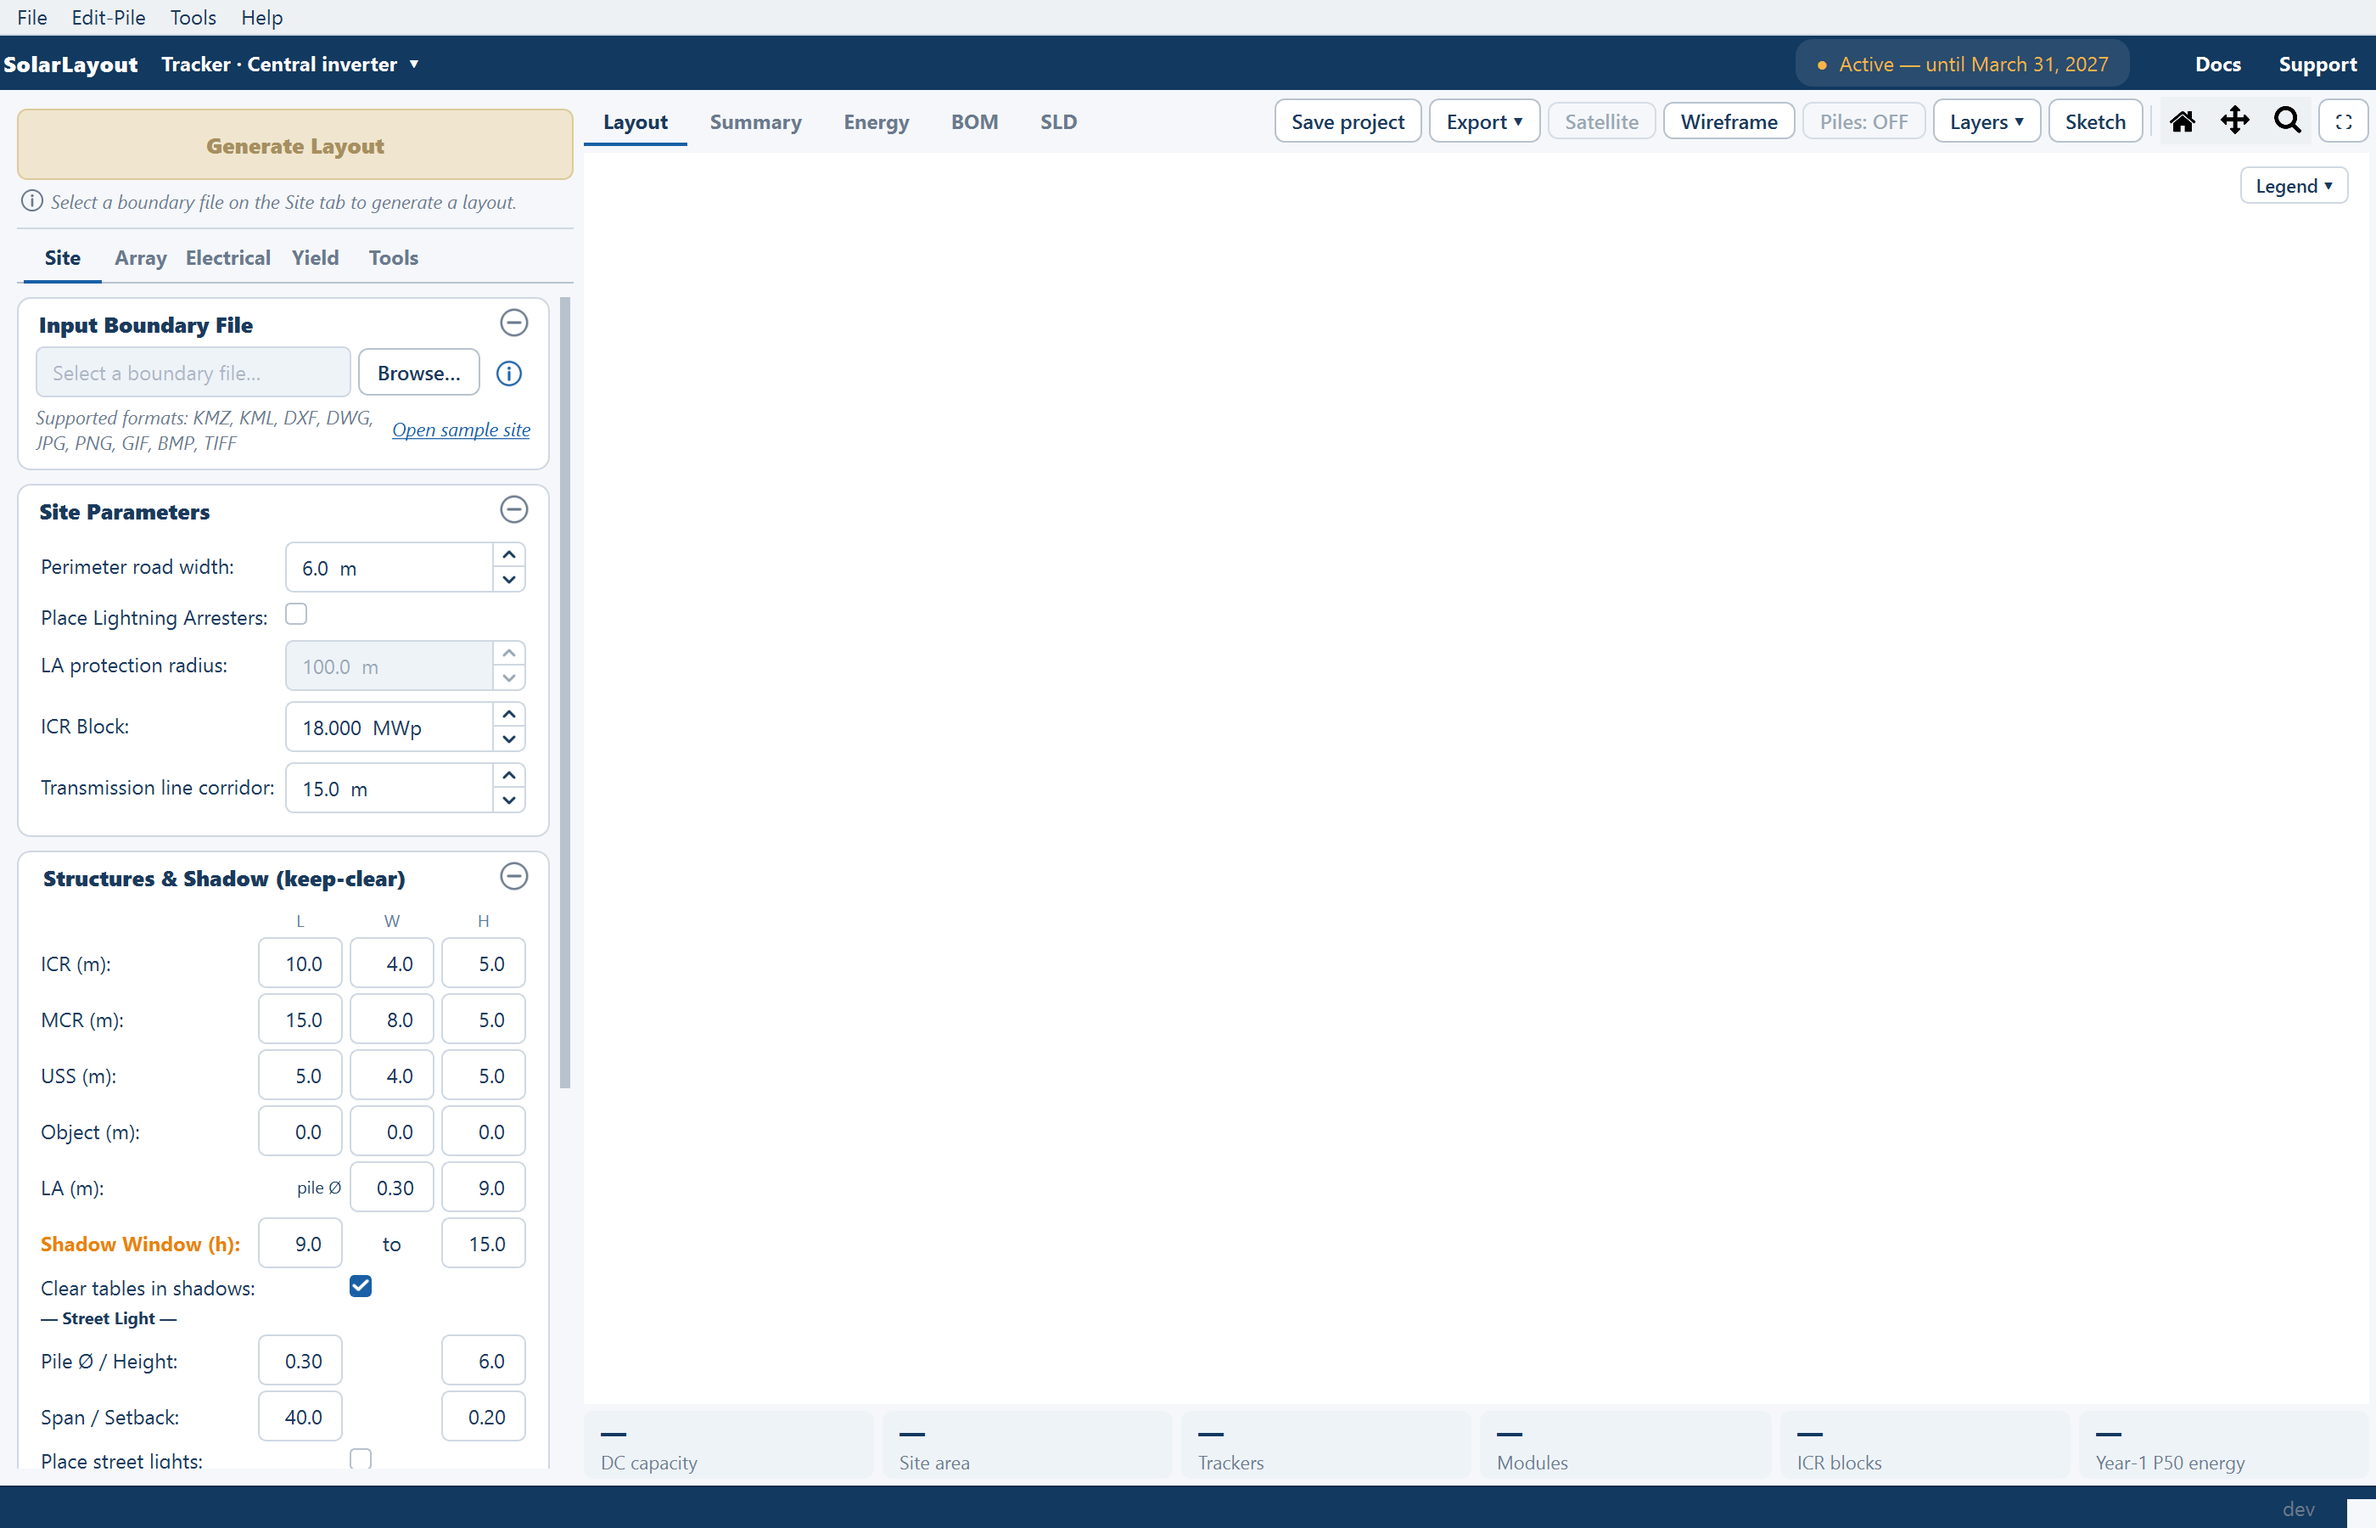
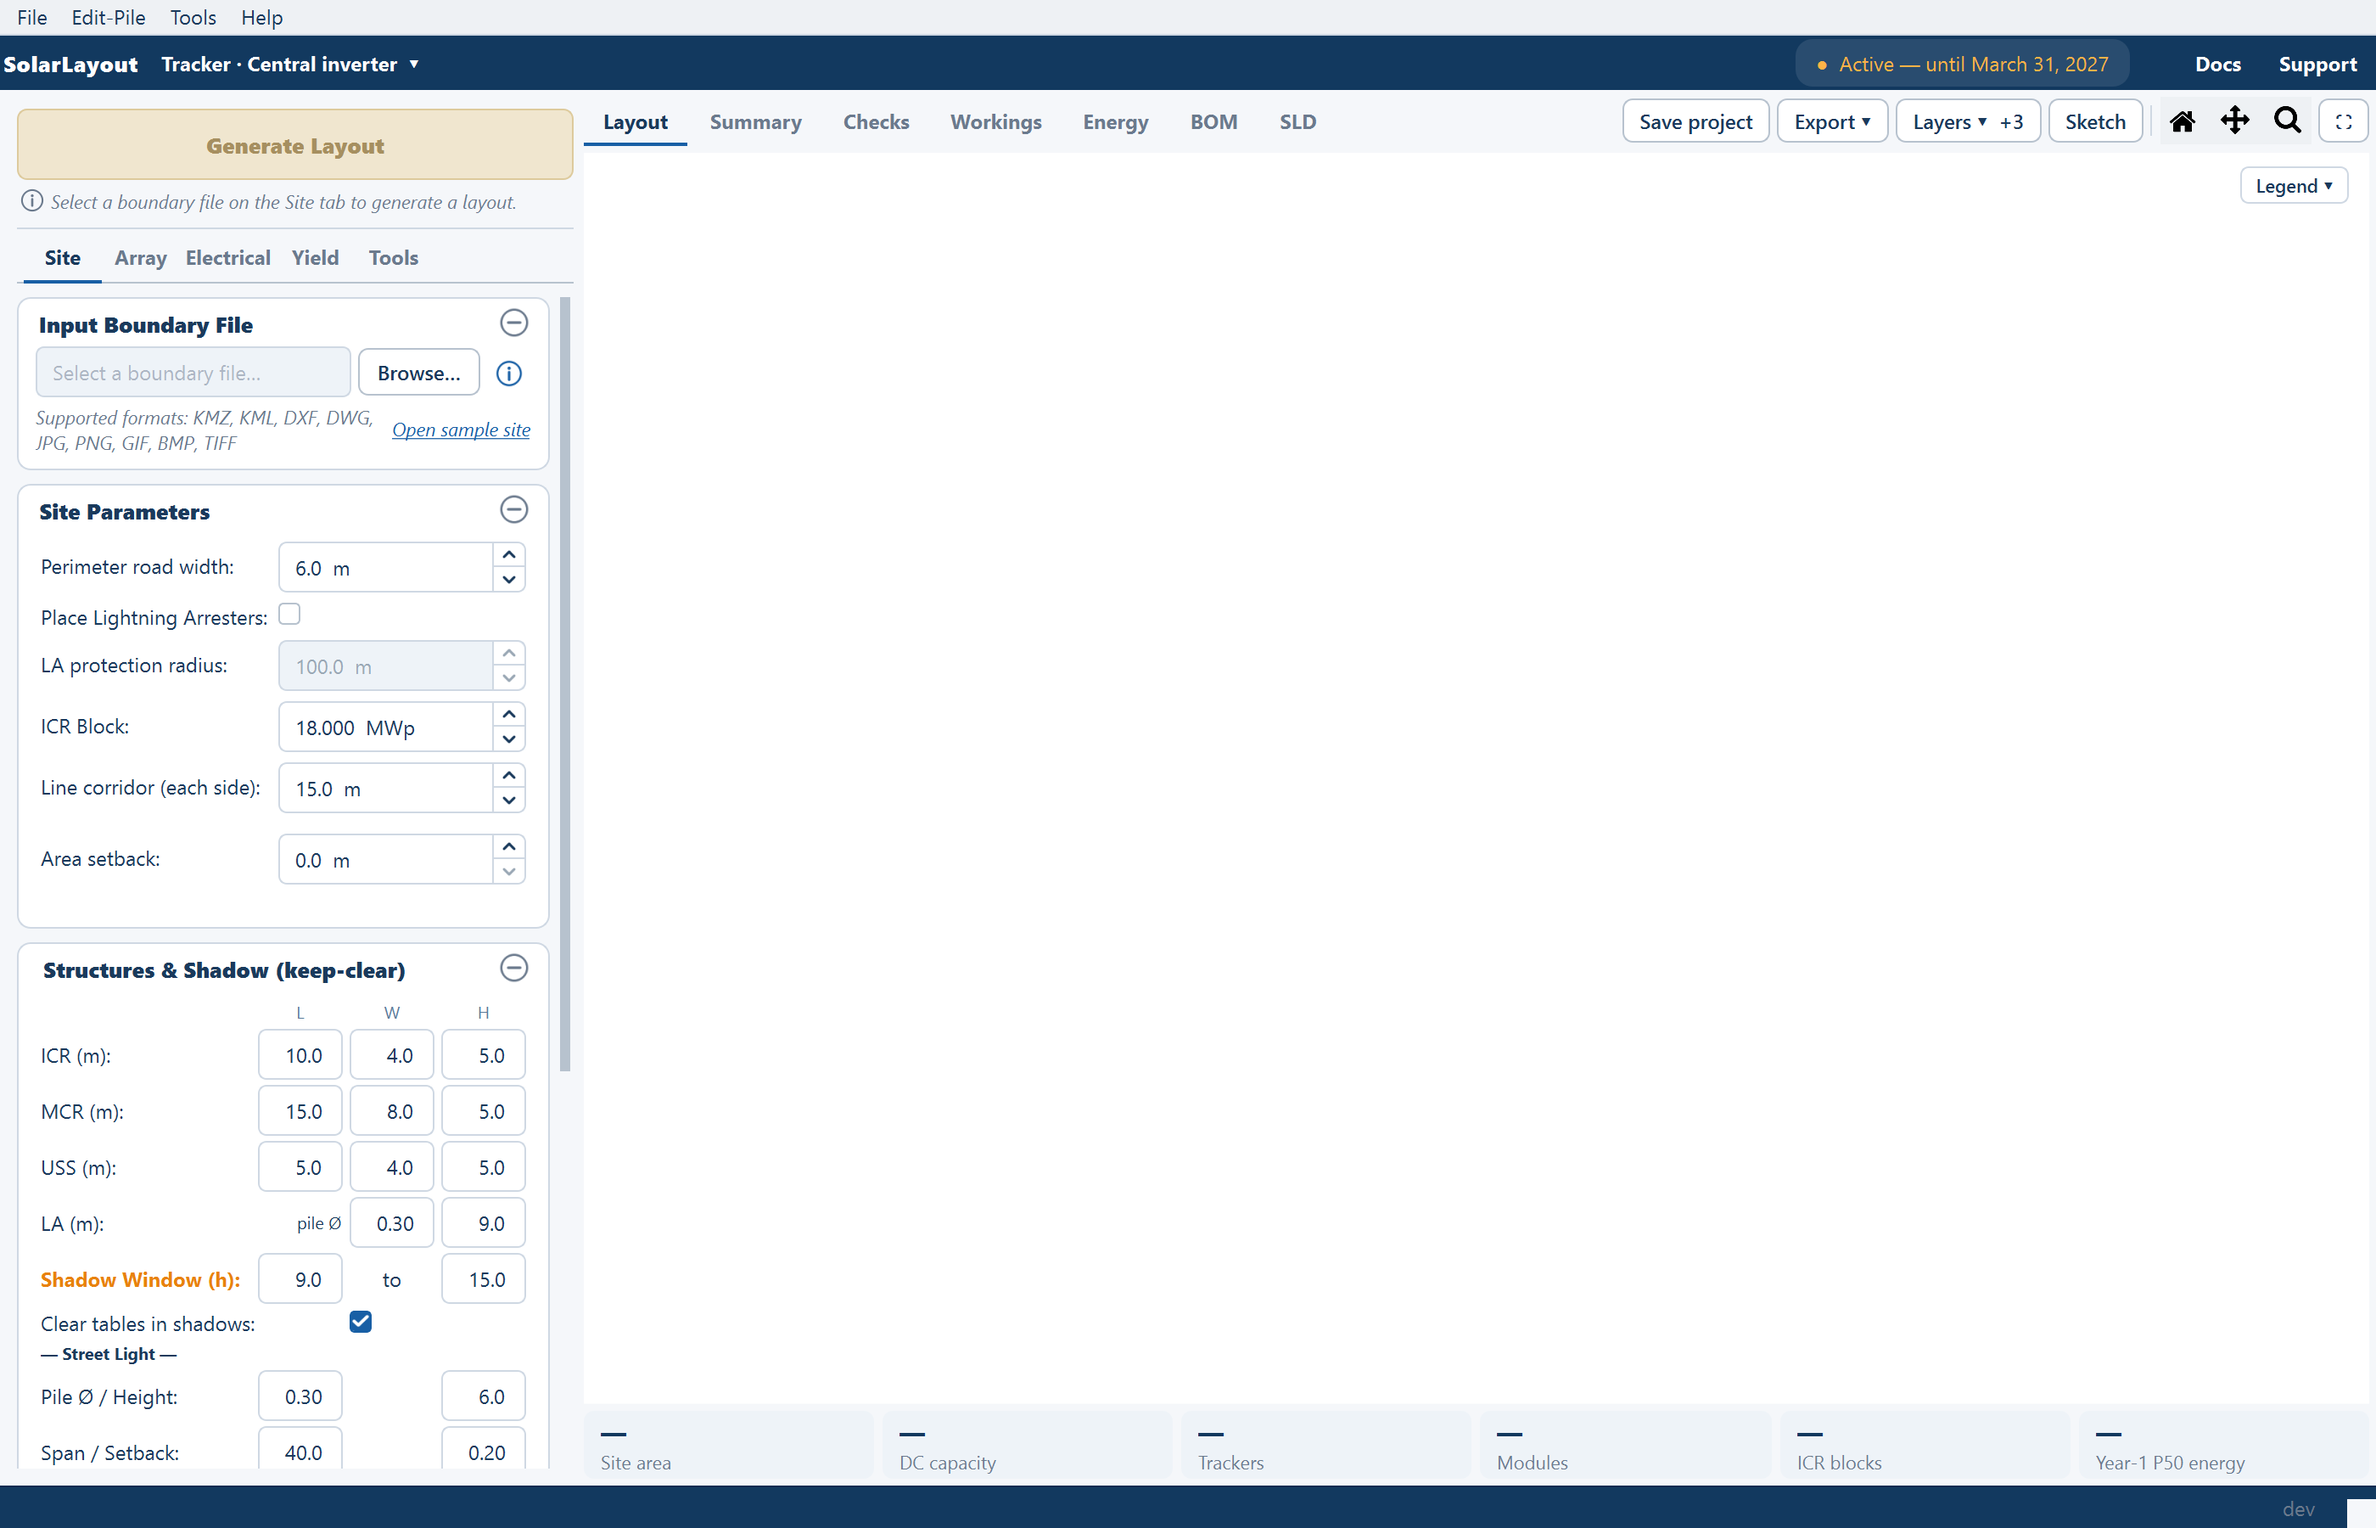
docs: Site tab frames recaptured from the product, and the Clean boundary review shown
The Site Parameters card now shows Line corridor (each side) and Area setback,
so tab-site and site-parameters go back on their pages. Whole-window frames with
the Site tab open are recaptured where the page's text still fits them.

diff --git a/content/screenshots.ts b/content/screenshots.ts
@@ -16,6 +16,8 @@
  * the application itself (its own render, 2× scale, 1400 × 900 window) on
  * the bundled sample site, a three-plot variant of it, and a test module and
  * inverter file — see docs/superpowers/plans/2026-09-21-desktop-docs-revamp.md.
+ * On 2026-11-05 the frames showing the Site Parameters card were recaptured the
+ * same way, and clean-boundary was added on a made-up site; the rest are 2026-09-28.
  *
  * SolarLayout Desktop has a single visual theme, so there is exactly ONE
  * image per entry — no light/dark pairs.
@@ -223,6 +225,17 @@ export const SCREENSHOTS: ScreenshotSpec[] = [
     priority: 1,
   },
   {
+    id: "clean-boundary",
+    file: "inputs/clean-boundary.png",
+    page: "/docs/inputs/kmz-requirements",
+    title: "The Clean boundary review",
+    alt: "The Clean boundary window for demo-site.kmz: the band counts 8 plots, 5 open lines, 14 obstructions and 24.5° N; the table lists each item with Keep, Found, Action, Water and Height, a polygon inside a plot is selected with its three choices below, and the map, the Ready verdict and the area, plot and obstruction tiles sit on the right.",
+    what: "The review as it opens on a file with problems to decide, the first row selected.",
+    state: "Browse to a Google Earth file with open lines, a duplicate, a crossing outline and a polygon inside a plot.",
+    annotations: "",
+    priority: 1,
+  },
+  {
     id: "boundary-validation",
     file: "inputs/boundary-validation.png",
     page: "/docs/inputs/kmz-requirements",
@@ -403,7 +416,7 @@ export const SCREENSHOTS: ScreenshotSpec[] = [
     file: "inputs/site-parameters.png",
     page: "/docs/inputs/site",
     title: "Site Parameters",
-    alt: "The Site Parameters card at its defaults: perimeter road width, Place Lightning Arresters unticked with the radius greyed out, ICR Block and the transmission line corridor.",
+    alt: "The Site Parameters card at its defaults: perimeter road width, Place Lightning Arresters unticked with the radius greyed out, ICR Block, Line corridor (each side) at 15.0 m and Area setback at 0.0 m.",
     what: "The card only, at its defaults.",
     state: "Site tab, nothing changed.",
     annotations: "",
